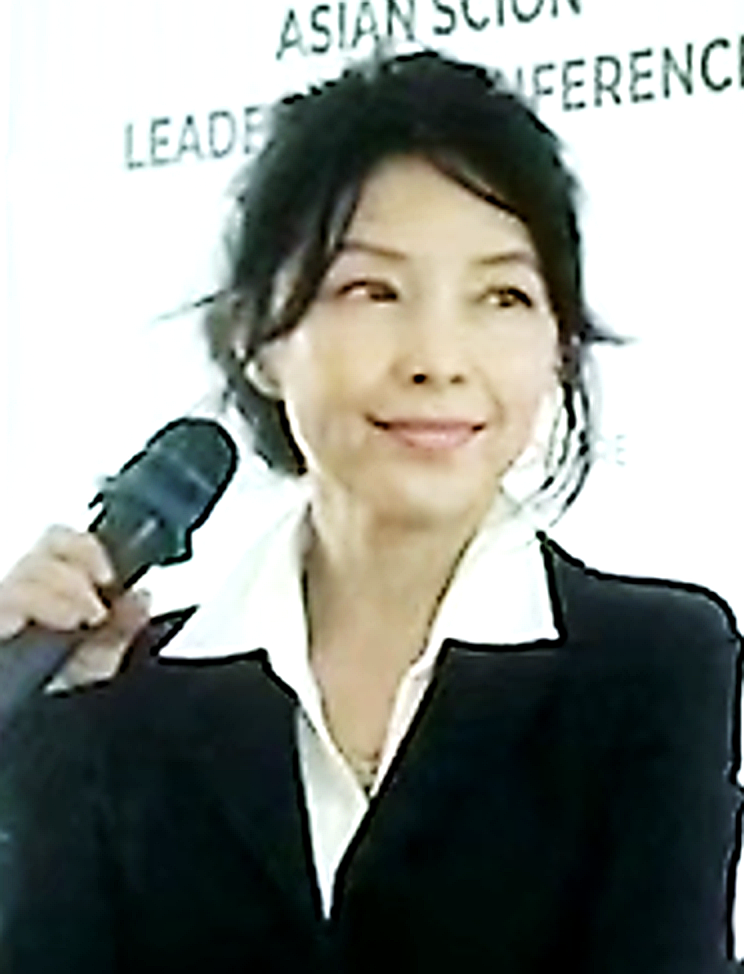
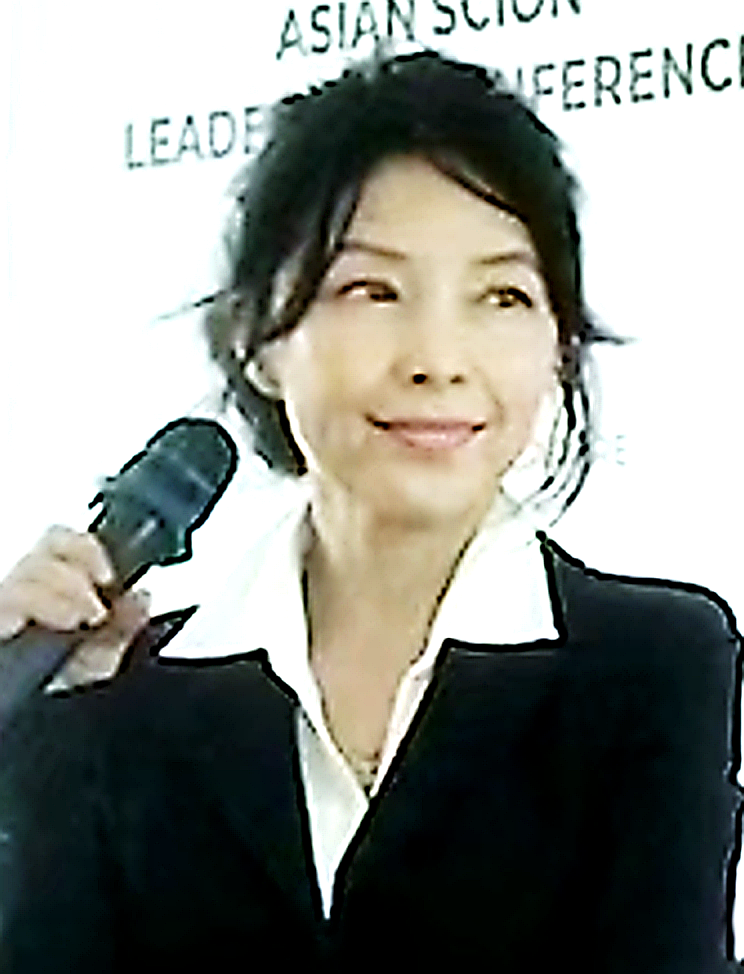
Team photos: Edmund face-filling crop; Isabella best-effort enhancement
- Edmund: new edmund-closeup.jpg (546px) — inscribed-square crop from inside the
  1024px transparent PNG's circular content; person now fills the frame
- Isabella: unsharp mask + mild contrast on isabella-lan.png (?v=enhanced);
  source is a soft conference frame — real fix is a new headshot
- Script: HQ\scripts\2026-08-03_1530

diff --git a/index.html b/index.html
@@ -406,7 +406,7 @@
             <div class="team-strip__grid">
 
                 <div class="ht-card">
-                    <div class="ht-card__photo"><img src="img/isabella-lan.png" alt="Isabella Lan"></div>
+                    <div class="ht-card__photo"><img src="img/isabella-lan.png?v=enhanced" alt="Isabella Lan"></div>
                     <div class="ht-card__body">
                         <h3 class="ht-card__name">Isabella Lan</h3>
                         <p class="ht-card__role">Managing Director</p>
@@ -416,7 +416,7 @@
                 </div>
 
                 <div class="ht-card">
-                    <div class="ht-card__photo"><img src="img/edmund photo.jpg" alt="Edmund Wuu"></div>
+                    <div class="ht-card__photo"><img src="img/edmund-closeup.jpg" alt="Edmund Wuu"></div>
                     <div class="ht-card__body">
                         <h3 class="ht-card__name">Edmund Wuu</h3>
                         <p class="ht-card__role">Director</p>
